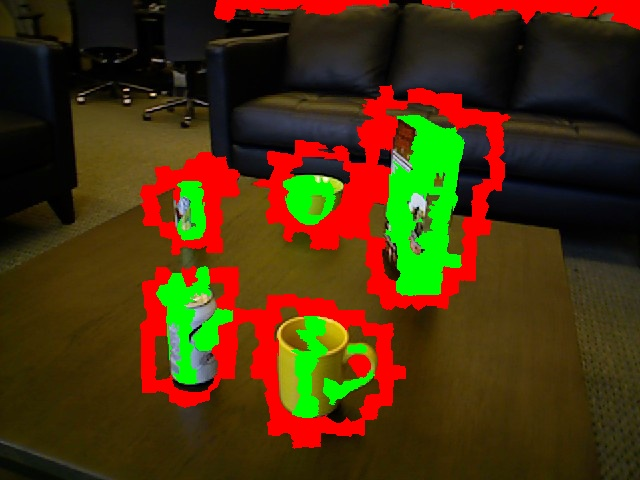
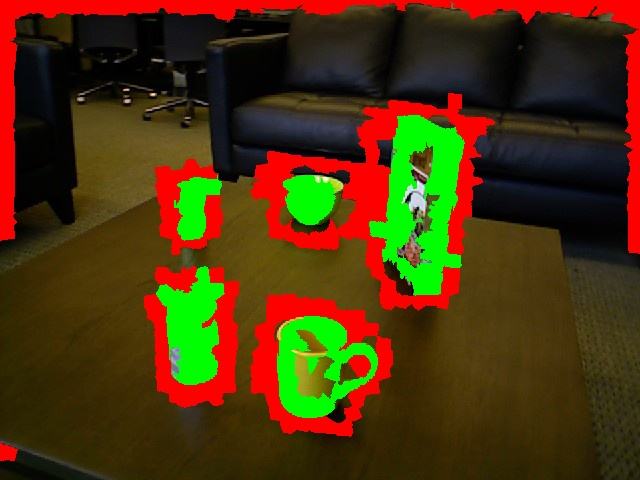
update primal dual method

diff --git a/GraphMaker_LAB.py b/GraphMaker_LAB.py
@@ -20,14 +20,7 @@ class GraphMaker:
 
     default = 0.5
     MAXIMUM = 1000000000
-
-
     ns = 1
-    ###各种参数###
-    lamda = 0.1
-    sigma1 = 0.5
-    sigma2 = 4000
-    sigma3 = 15
 
     def __init__(self):
         self.depth = None
@@ -247,7 +240,7 @@ class GraphMaker:
                 boundary_superpixel.append(self.superpixel_segment[self.height - 1, y])
         for boundary in boundary_superpixel:
             # 100 is a threshold(hyper-parameters), which need to be chosen carefully!
-            if Lab_disFore[boundary] > 100 and boundary not in self.background_superseeds:
+            if Lab_disFore[boundary] / np.max(Lab_disFore) > 0.3 and boundary not in self.background_superseeds:
                 self.background_superseeds.append(boundary)
 
         tmp_img = self.image.copy()
@@ -295,13 +288,14 @@ class GraphMaker:
 
 
     def cut_graph(self):
+        # self.f = self.f * (np.ones((self.height, self.width)) + np.random.normal(0, 0.01, (self.height, self.width)))
         tau = 0.1
         sigma = 0.05
-        mu = 10000
+        mu = 1
 
         imgray = cv2.cvtColor(self.image, cv2.COLOR_BGR2GRAY)
 
-        u = primal_dual(imgray, sigma, tau, mu, self.f, iters=50)
+        u = primal_dual(imgray, sigma, tau, mu, self.f, iters=500)
         u[u > 0.5] = 1
         u[u <= 0.5] = 0
 

diff --git a/TEST.py b/TEST.py
@@ -239,7 +239,7 @@ class GraphMaker:
                 boundary_superpixel.append(self.superpixel_segment[self.height - 1, y])
         for boundary in boundary_superpixel:
             # 150 is a threshold(hyper-parameters), which need to be chosen carefully!
-            if RGB_disFore[boundary] / np.max(RGB_disFore) > 0.5 and boundary not in self.background_superseeds:
+            if RGB_disFore[boundary] > 150 and boundary not in self.background_superseeds:
                 self.background_superseeds.append(boundary)
 
         tmp_img = self.image.copy()
@@ -278,10 +278,6 @@ class GraphMaker:
         f[f <= 0] = 0
         f[f > 0] = 255
         cv2.imwrite('./results/SegImg.jpg', f)
-
-
-    # def construct_confident(self):
-    #     self.segment_overlay = np.zeros_like(self.segment_overlay)
 
 
     @staticmethod

diff --git a/utils.py b/utils.py
@@ -39,8 +39,8 @@ def primal_dual(img, sigma, tau, mu, f, iters=10):
     for i in range(iters):
         print(i)
         ubar_old = -u
-        p1 = p + sigma * dxp(ubar)
-        p2 = p + sigma * dyp(ubar)
+        p1 = p - sigma * dxp(ubar)
+        p2 = p - sigma * dyp(ubar)
         norm = np.maximum(np.ones((M, N)), np.sqrt(p1 ** 2 + p2 ** 2))
         p1 = p1 / norm
         p2 = p2 / norm
